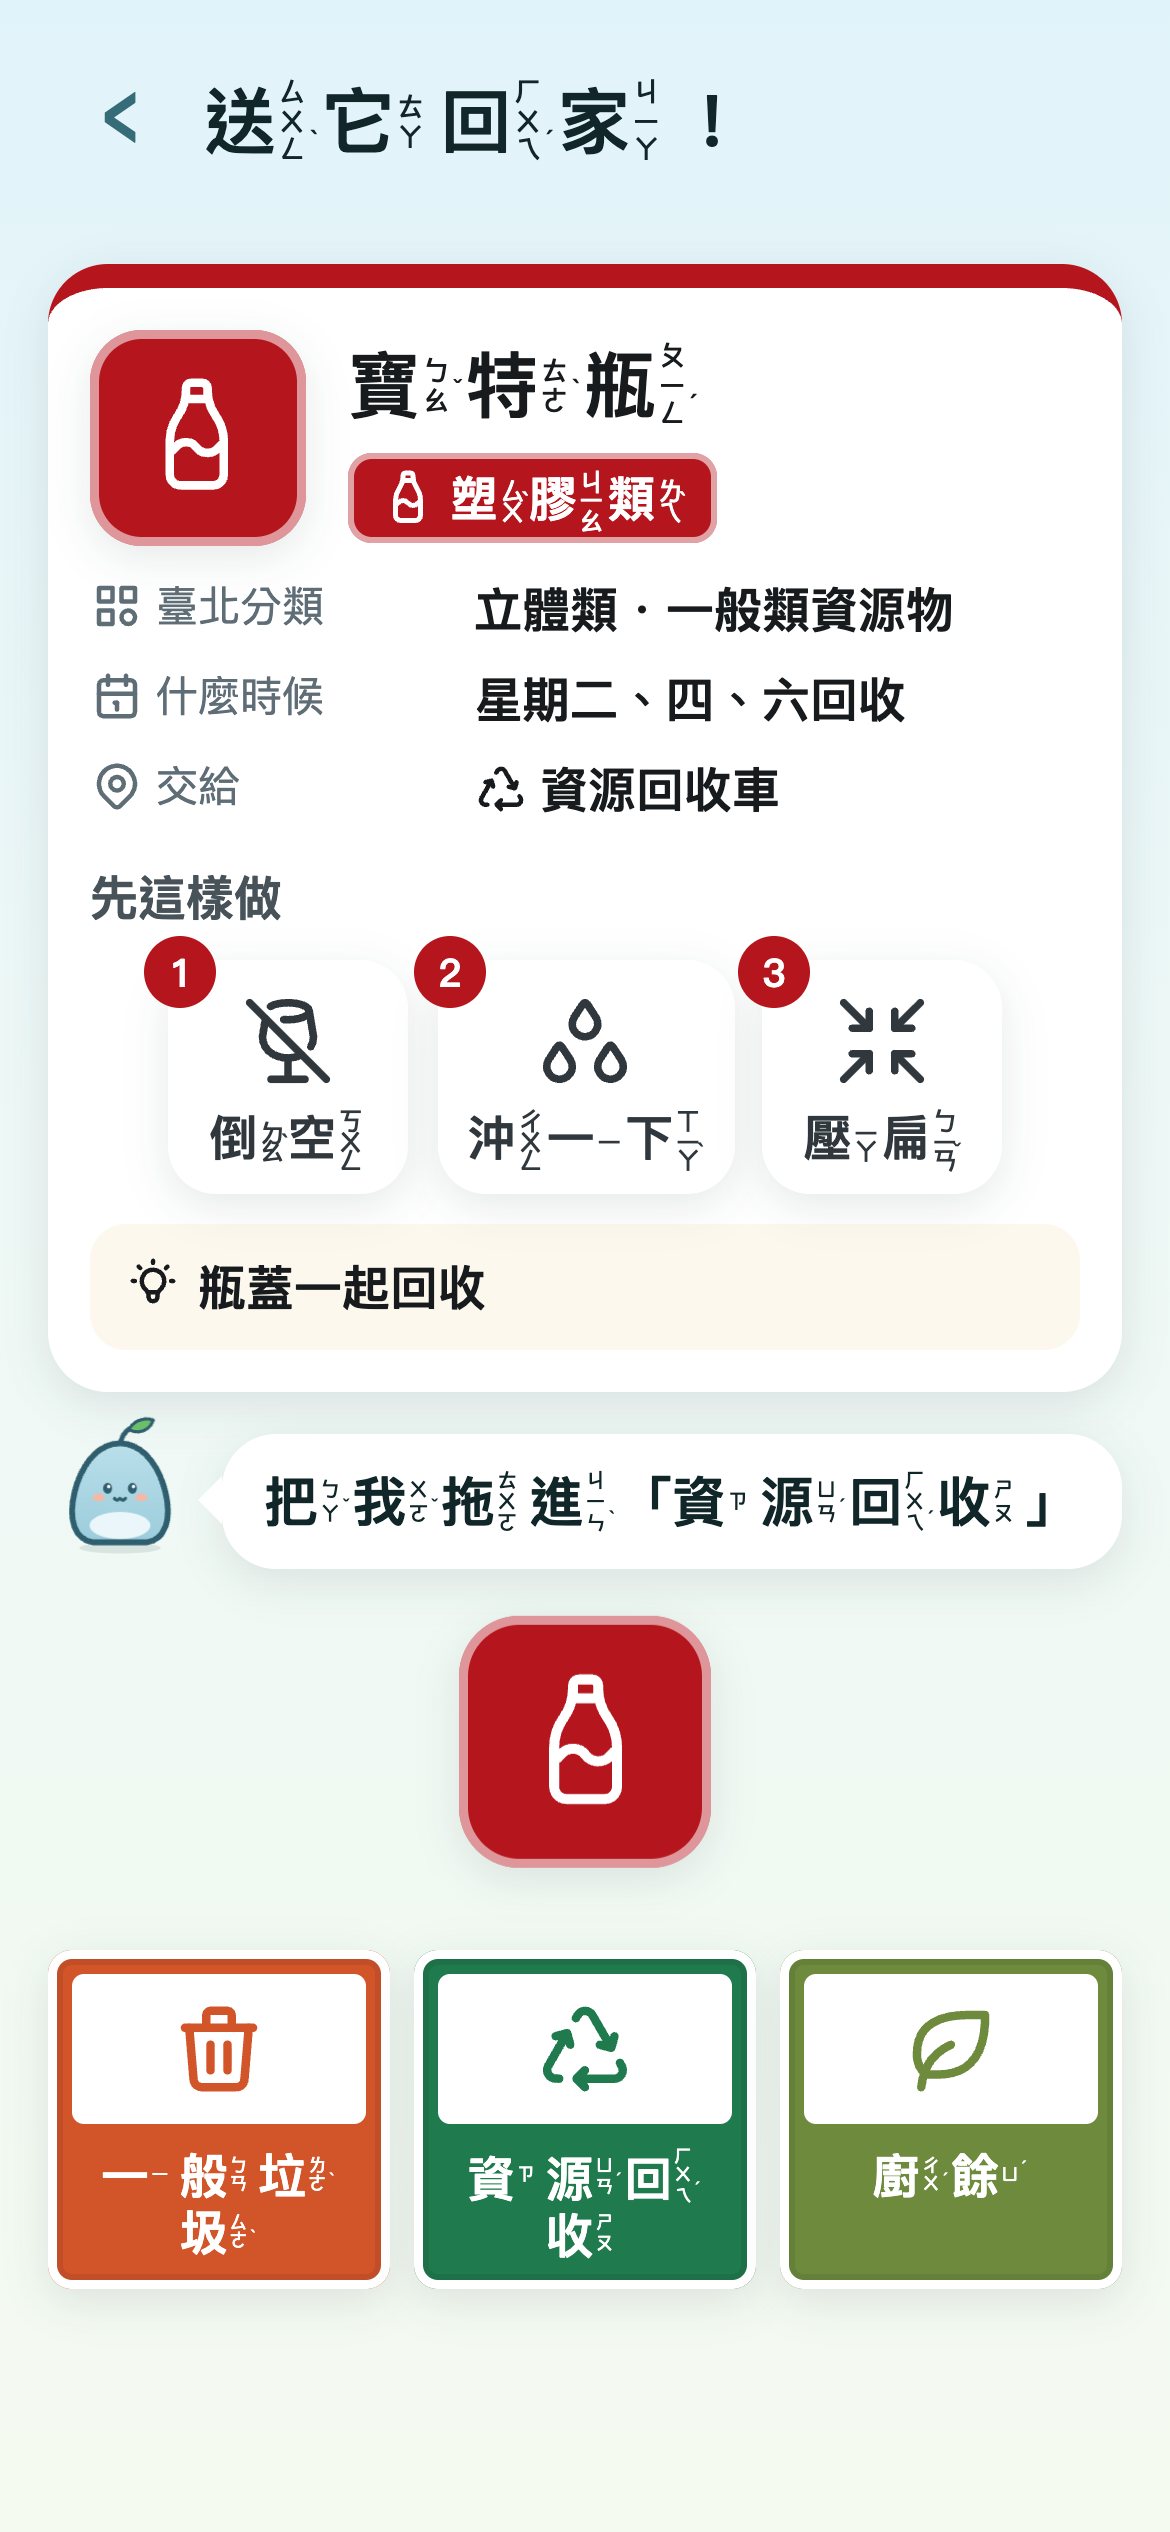
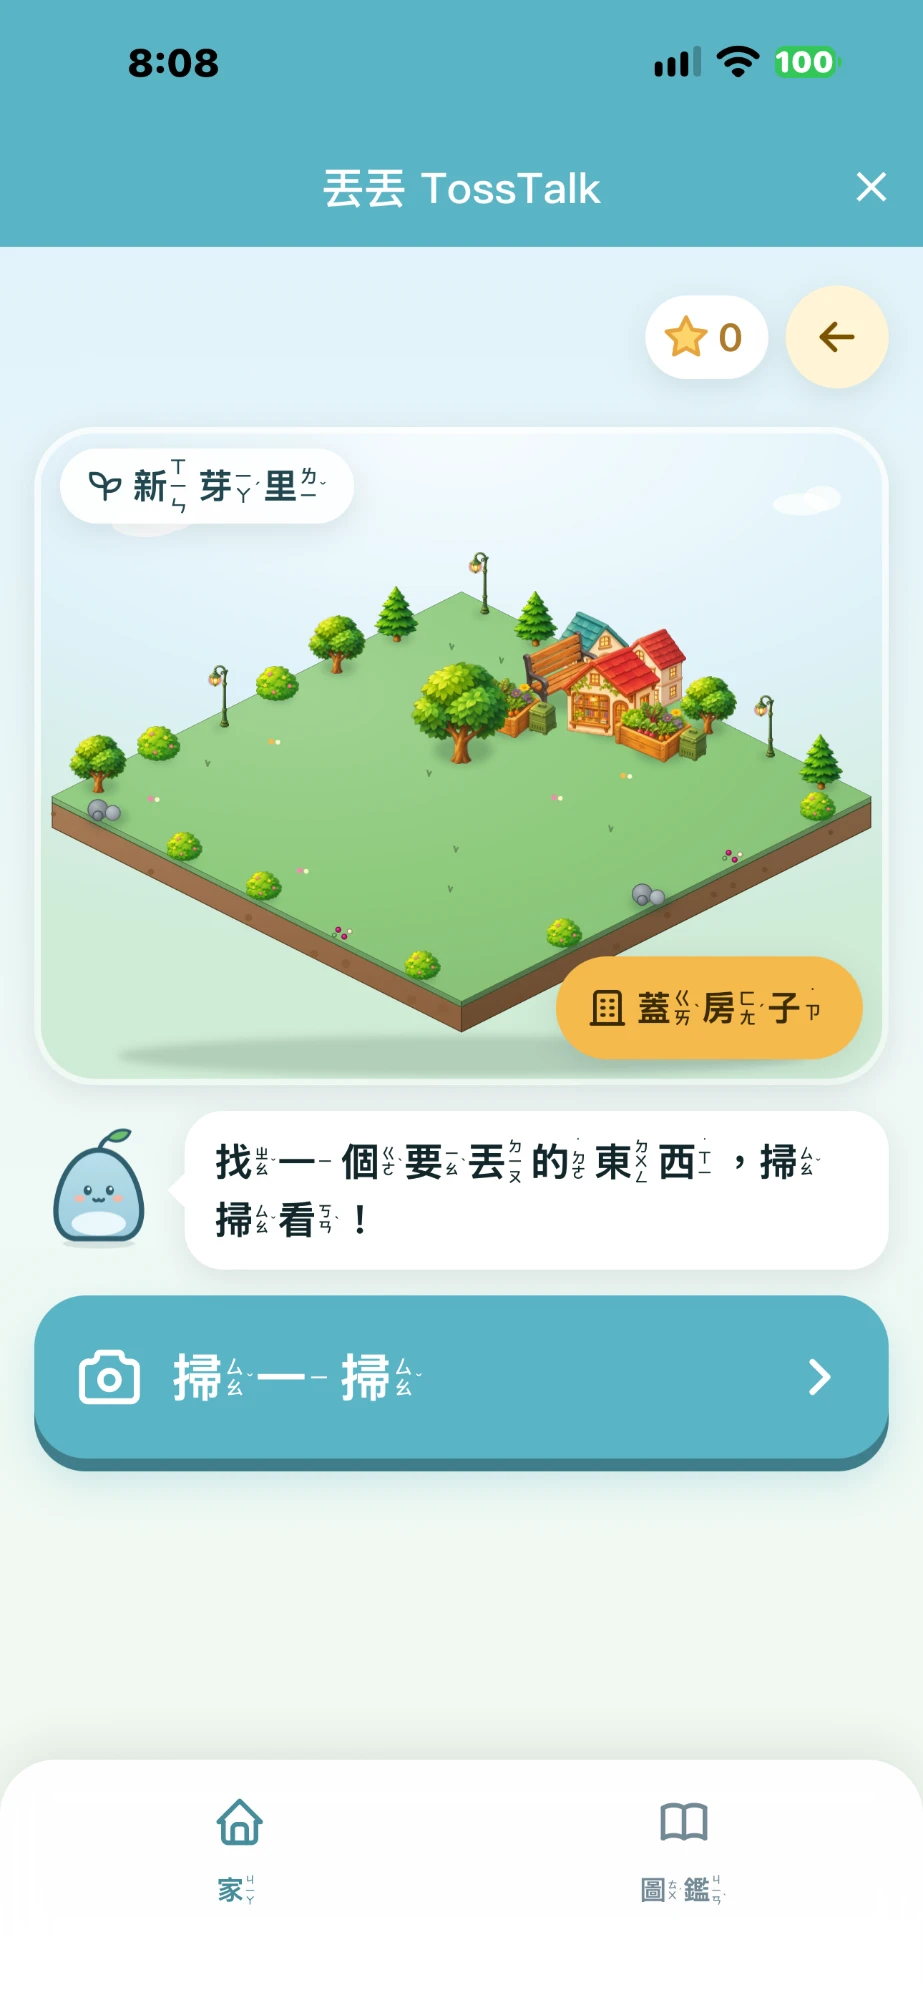
docs(readme): overview uses iPhone screenshots of both modes
The kids-mode and 丟丟 phones in the README overview are now iPhone
screenshots: 回收小里長's home (掃一掃, 蓋房子) and 丟丟's step list
(我的丟垃圾清單). Captions follow the screens (注音、掃一掃 / 一步一步帶著丟),
and the AI disclosure says all three are device screenshots.

diff --git a/docs/readme/overview.html b/docs/readme/overview.html
@@ -1,5 +1,5 @@
 <!doctype html>
-<!-- README 主圖原始檔，用 Chrome headless 輸出 overview.png。screen-scan.png 是 iPhone 實機截圖（背景已模糊），其他兩張截自本機開發版。 -->
+<!-- README 主圖原始檔，用 Chrome headless 輸出 overview.png。三張都是 iPhone 實機截圖（screen-scan.png 背景已模糊）。 -->
 <html lang="zh-Hant-TW"><head><meta charset="utf-8">
 <style>
 @font-face { font-family: PF; src: url(../../fonts/PingFangTC-Regular.otf); font-weight: 400; }
@@ -38,8 +38,8 @@ h1 { margin: 22px 0 10px; font-size: 60px; line-height: 1.2; font-weight: 600; }
     <div class="phone p2"><img src="screen-recycle-li.png" alt=""></div>
     <div class="phone p3"><img src="screen-diudiu.png" alt=""></div>
     <div class="cap c1">拍一拍就知道<span>在手機上辨識，不上傳</span></div>
-    <div class="cap c2">回收小里長<span>給兒童：注音、拖進桶</span></div>
-    <div class="cap c3">丟丟 TossTalk<span>給外籍人士：8 種語言</span></div>
+    <div class="cap c2">回收小里長<span>給兒童：注音、掃一掃</span></div>
+    <div class="cap c3">丟丟 TossTalk<span>給外籍人士：一步一步帶著丟</span></div>
   </div>
 </div>
 </body></html>

diff --git a/README.md b/README.md
@@ -127,7 +127,7 @@ cd microservices/trash_helper && firebase deploy --only hosting --project taipei
   - 版本、雜湊與準確率見 [recycle-li/README.md](recycle-li/README.md)「AI 與模型揭露」
 - **語音提問**（丟丟）：使用手機作業系統內建的語音辨識，只在按下麥克風後聆聽。
 - **開發輔助**：Claude Code、Codex 協助撰寫程式、文件與翻譯；回收小里長「我的里」插圖在開發時以影像生成產生，記錄在其 README「插圖來源」。
-- **本頁主圖**：`docs/readme/overview.html` 排版；掃描畫面是 iPhone 實機截圖（背景已模糊），其他兩張截自開發版，沒有使用生成圖片。
+- **本頁主圖**：`docs/readme/overview.html` 排版；三張都是 iPhone 實機截圖（掃描畫面背景已模糊），沒有使用生成圖片。
 
 ## 授權 / License
 
